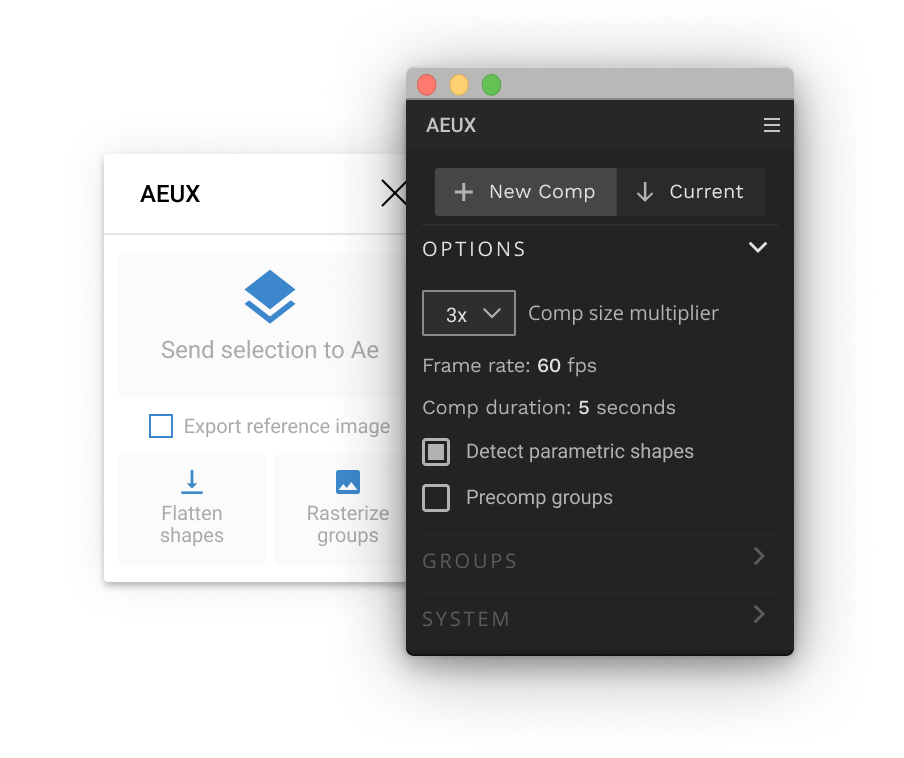
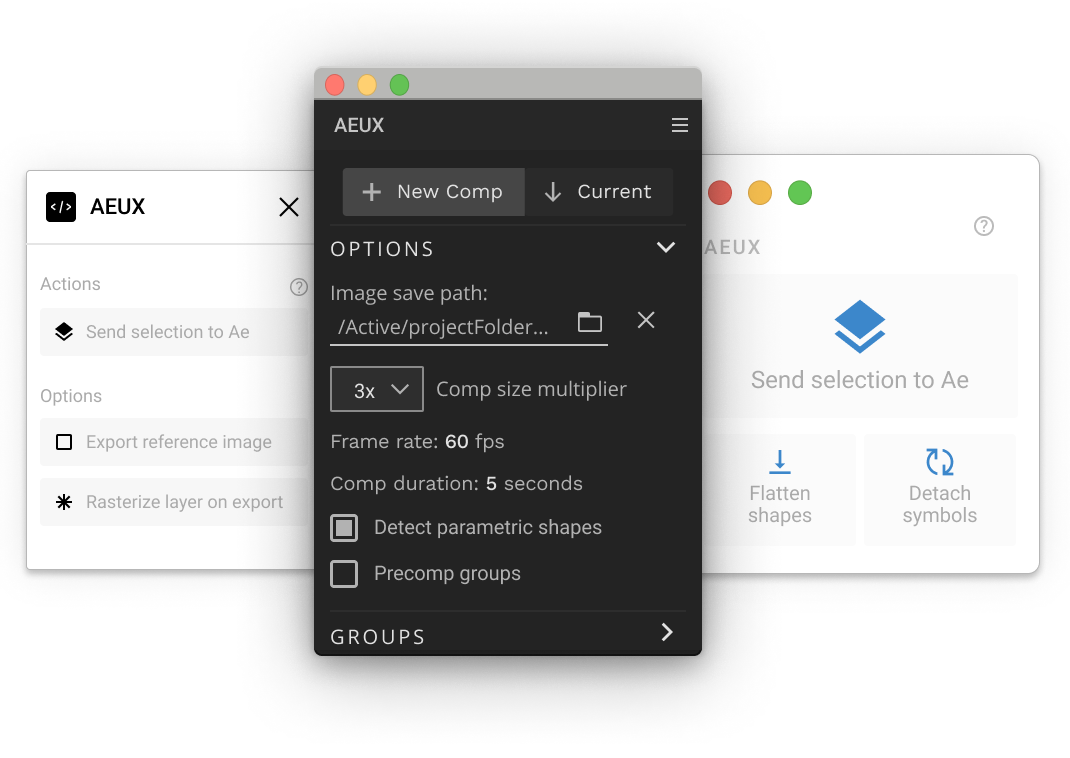
0.8.0 updates

diff --git a/Documentation/docs/.vuepress/components/Screenshot.vue b/Documentation/docs/.vuepress/components/Screenshot.vue
@@ -1,0 +1,94 @@
+<template>
+    <div class="screenshot" :style="">
+        <div class="img" 
+            :class="{ center : center, left : left, right : right, toolbar : toolbar }" >
+            <img :src="url" :alt="alt" :style="{ 'width' : maxWidth }" :class="{zoom : zoom}">
+        </div>
+    </div>
+</template>
+
+<script>
+export default {
+    props: {
+        url: {
+            type: String,
+            default: ''
+        },
+        alt: {
+            type: String,
+            default: ''
+        },
+        width: {
+            type: String,
+            default: 'auto'
+        },
+        center: {
+            type: Boolean,
+            default: false
+        },
+        right: {
+            type: Boolean,
+            default: false
+        },
+        left: {
+            type: Boolean,
+            default: false
+        },
+        toolbar: {
+            type: Boolean,
+            default: false
+        },
+        zoom: {
+            type: Boolean,
+            default: false
+        },
+    },
+    computed: {
+        maxWidth () {
+            return this.width
+        }
+    },
+}
+</script>
+
+<style scoped>
+
+.screenshot {
+    margin: 16px 0;
+    clear: left;
+}
+.center {
+    margin-left: auto;
+    margin-right: auto;
+}
+.toolbar>img {
+    height: 50px;
+    margin-right: 16px;
+}
+.left, .toolbar {
+    float: left;
+    margin-right: 16px;
+}
+.right {
+    float: right;
+    margin-left: 16px;
+}
+.img {
+    /* width: 100%; */
+    height: auto;
+    padding-top: 8px;
+}
+.text {
+    font-size: 0.9rem;
+    line-height: 1.6em;
+    letter-spacing: 0.05em;
+}
+
+@media (max-width: 500px) {
+    .img:not(.toolbar) {
+        margin-left: auto;
+        margin-right: auto;
+        float: none;
+    }
+}
+</style>

diff --git a/Documentation/docs/.vuepress/config.js b/Documentation/docs/.vuepress/config.js
@@ -57,8 +57,8 @@ module.exports = {
             'download',
             'install',
             'ae-options',
+            'options',
             'grouping',
-            'layer-prep',
             'faq',
             'changelog',
           ]

diff --git a/Documentation/docs/guide/options.md b/Documentation/docs/guide/options.md
@@ -1,0 +1,48 @@
+# Figma/Sketch Options
+
+Simplifying layers in Sketch and Figma prior to transferring to After Effects can often provide more accurate layer creation in AEUX. 
+
+## Figma layer options
+
+<Screenshot 
+    url="/Figma_0.8.0.png" 
+    alt="Figma options" 
+    width="150px"
+    left />
+
+### Export reference image
+
+There are a few known alignment issues with layers from Figma. Enable this checkbox to generate an image overlay of the Figma frame to allow for manual alignment. Known alignment issues:
+- Text layers
+- Rotated images
+
+
+### Rasterize layer on export
+<!-- <img :src="'/action_detach.png'" alt="Detach symbols" class="action-img"> -->
+
+Internally nicknamed **Magic Astrix**, starting in AEUX v0.8.0, it is possible to automatically send anything in Figma to Ae as a PNG file (without editing the art) by adding a `*` to the start of the layer name. This becomes very useful for icons, complex group hierarchies, or anything that doesn't need to be animated and could be optimized by flattening it down to a single image.
+
+Renaming in Figma may be done by:
+- Manually renaming a layer
+- Batch renaming selected layers with `CMD+R`/`Ctrl+R` then adding `* $&`
+- Selecting Figma layers and groups, then clicking the **Rasterize layer on export**
+<br />
+
+## Sketch  layer options
+
+<Screenshot 
+    url="/Sketch_0.8.0.png" 
+    alt="Sketch options" 
+    width="180px"
+    left />
+
+### Flatten shapes
+<!-- <img :src="'/action_flatten.png'" alt="Flattens layers" class="action-img"> -->
+
+Building icons from simple shapes is a flexible way to design and can make animation possible inside of Ae. AEUX supports Boolean operations, but mixing different operators within a single group or nesting boolean operations can be a little hard for Ae to draw. Click to flatten and combine shapes into a single element.
+
+### Detach symbols
+
+<!-- <img :src="'/action_detach.png'" alt="Detach symbols" class="action-img"> -->
+
+Symbols may be nested, overridden, transformed or constrained and this may lead to a lot of confusion in Ae (usually with image overrides). If layers build incorrectly inside of Ae, try detaching the symbol from its master. This removes the symbols dependence on nested data in order to draw its layers more accurately.

diff --git a/Documentation/docs/guide/ae-options.md b/Documentation/docs/guide/ae-options.md
@@ -1,10 +1,14 @@
 # Ae options
 
 The primary role of the After Effects panel is to control how layers get built. Once these preferences are set, it is not required to keep the Ae panel open; AEUX will work even with this panel closed.
-
-<img :src="'/ae_options.png'" alt="After Effects options" class="guide-img">
-
 ## New comp
+
+<Screenshot 
+    url="/ae_options.png" 
+    alt="Ae options" 
+    width="210px"
+    left />
+
 Creates a new Ae comp for each transfer. While most design apps are able to work at a lower resolution for different pixel densities Ae needs real pixel values. 
 
 ### Comp size multiplier
@@ -16,6 +20,8 @@ Adjust the new comps to best fit your target output.
 ## Current comp
 Adds transferred layers to the existing comp. The current comp’s width is measured and used to set the size of the new layers.
 
+## Image save path
+When transferring images to Ae, it needs to know where you want to save them. With this field empty, AEUX will ask each time for a folder path. If you plan to work in the same project for a while, set a path and AEUX will build images without asking where to save each time. 
 ## Detect parametric shapes
 When enabled, AEUX will create rectangles and ellipses whenever possible. When disabled it will create paths. Limit conversions by transfering shapes the way you want.
 

diff --git a/Documentation/docs/guide/grouping.md b/Documentation/docs/guide/grouping.md
@@ -2,13 +2,17 @@
 
 <Video url="https://www.youtube.com/embed/R7Nle5BaZzA" aspect="16x10" />
 
-## Group and ungroup
+### Group and ungroup
 Precomping can simplify a long list of layers in a single comp but removes layers from the main work area. It is now possible to un-precomp layers in After Effects for the first time while adding a lot of smarts to precomping.
 
-<img :src="'/ae_groups.png'" alt="After Effects options" class="guide-img">
+<Screenshot 
+    url="/AE_Groups.png" 
+    alt="Ae grouping" 
+    width="210px"
+    left />
 
-## Toggle visibility
+### Toggle visibility
 Group layers are just rectangle guide layers (layers that do not render) but can help transform multiple elements when dragged around the comp. Click to toggle all guide layer visibility to make dragging much easier.
 
-## Delete guide layers
+### Delete guide layers
 If groups aren’t your thing and you end up with a bunch of unnecessary layers, click to remove all guide layers from the comp.
